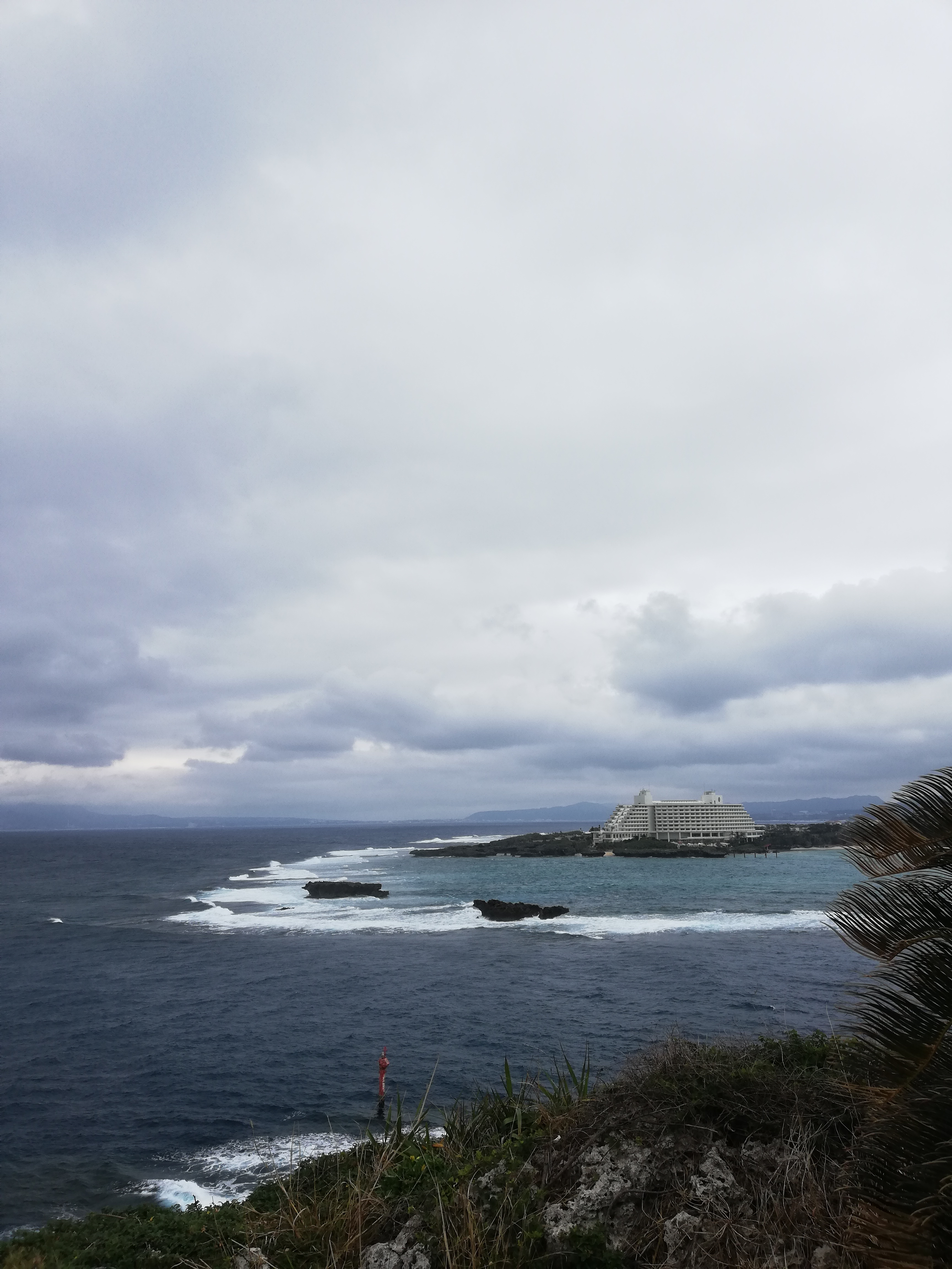
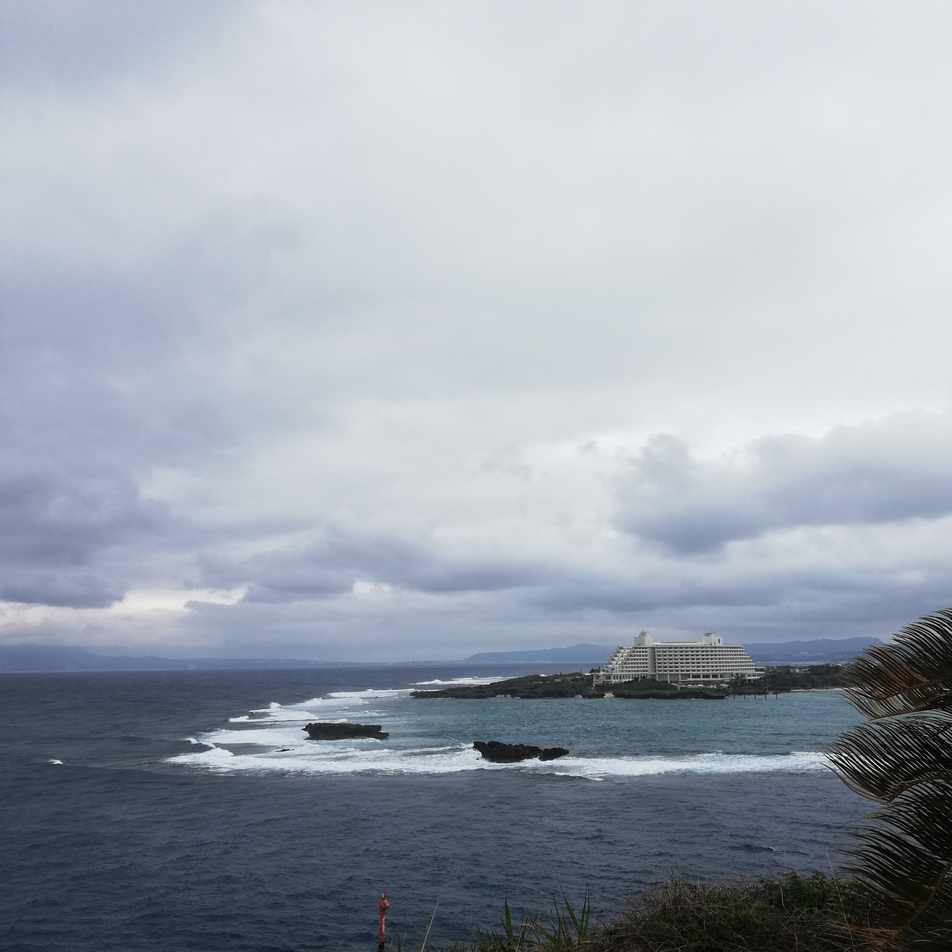
add photos

diff --git a/tool.py b/tool.py
@@ -246,7 +246,7 @@ def git_operation():
 #     compress_photo()   # 压缩图片，并保存到mini_photos文件夹下
 #     git_operation()    # 提交到github仓库
 #     handle_photo()     # 将文件处理成json格式，存到博客仓库中
-#cut_photo()        # 裁剪图片，裁剪成正方形，去中间部分
+cut_photo()        # 裁剪图片，裁剪成正方形，去中间部分
 compress_photo()   # 压缩图片，并保存到mini_photos文件夹下
 git_operation()    # 提交到github仓库
 handle_photo()     # 将文件处理成json格式，存到博客仓库中
